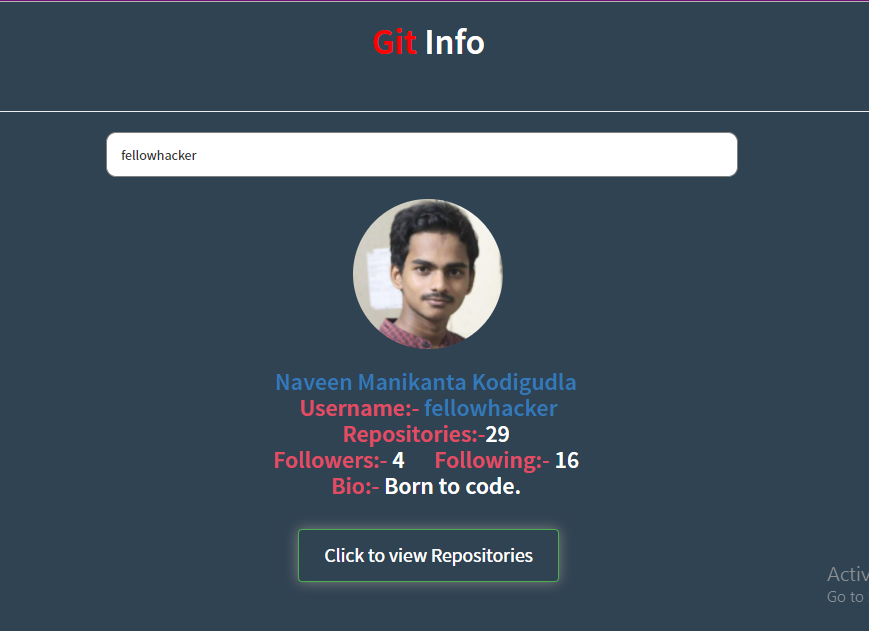
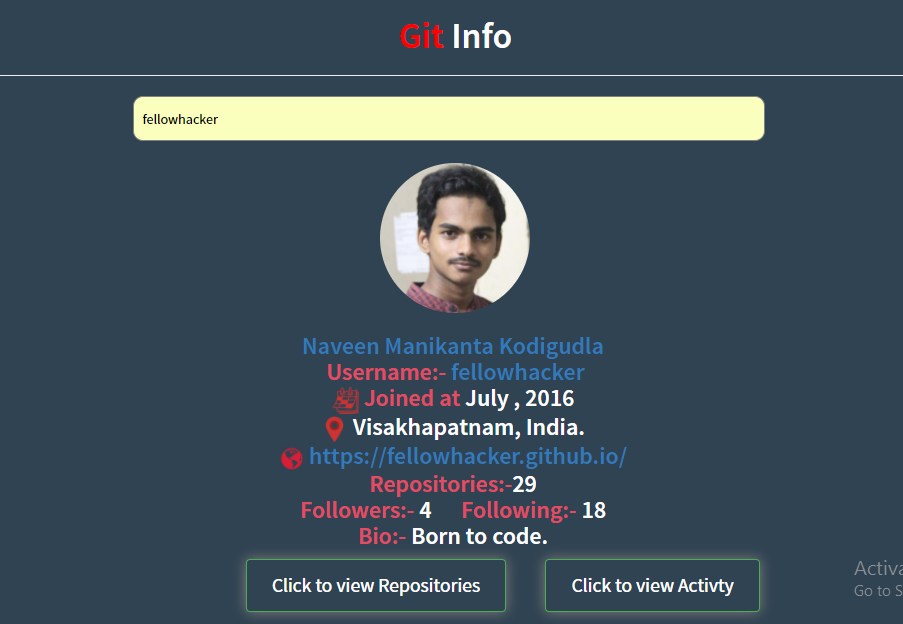
Activity added

diff --git a/js/main.js b/js/main.js
@@ -111,15 +111,15 @@ function getBasicInfo(data) {
 				' <br><span style="color: #e44c65;">Bio:- </span><span style="color:white"> ' + bio + ' </span> <br> </h3>' +
         
         '<div class="row">' +
-          ' <div class="col-md-3 text-center">' +
-                '<a href="#goToRepos" id="disNone1"><button class="btn btn-success" style="" id="butrep"><span style="font-size: 140%;">Click to view Repositories</span></button></a>'+
+          ' <div class="col-md-3 text-center" id="disNone1">' +
+                '<a href="#goToRepos"><button class="btn btn-success" style="" id="butrep"><span style="font-size: 140%;">Click to view Repositories</span></button></a>'+
             '</div>' +
 
           '<div class="col-md-5">' +
           '</div>' +
 
           '<div class="col-md-4 text-center">' +
-             '<a href="#" id="disNone1"><button class="btn btn-success" style="" id="butactivity"><span style="font-size: 140%;">Click to view Activty</span></button></a>' +
+             '<a href="#goToActivity" id="disNone1"><button class="btn btn-success" style="" id="butactivity"><span style="font-size: 140%;">Click to view Activty</span></button></a>' +
           '</div>'+
        
         '</div>' +
@@ -197,7 +197,7 @@ $( function() {
     })
 
 })
-getactivity('A')
+  //getactivity('A')
 
 function getactivity(username) {
 
@@ -223,7 +223,7 @@ function getactivity(username) {
 
 function dispActivity(data, i) {
 
-  var all = "";
+  var all = "<div class='row'>";
 
     if(data[i].type === 'CreateEvent') {
       var name = data[i].repo.name
@@ -236,9 +236,9 @@ function dispActivity(data, i) {
                   '</div><br>' 
      // console.log(all.outputact)
 
-   //   all = all.outputact
+     all = all + outputact
 
-      return outputact;
+  //    return outputact;
     }
     else if(data[i].type === 'ForkEvent') {
       var name = data[i].repo.name
@@ -253,7 +253,8 @@ function dispActivity(data, i) {
                      
                   '</div><br>' 
 
-     return outputact;
+     all = all + outputact
+    // return outputact;
     }
     else if(data[i].type === 'WatchEvent') {
       var name = data[i].repo.name
@@ -261,28 +262,31 @@ function dispActivity(data, i) {
       var outputact = '<div class="row">' +
      
                     '<div class="col-md-12 text-center activityinfo">' +
-                       '<p style="color:white;"> <img src = "img/starr.png" width="18px"> Starred <span style="color:#e44c65"> repository </span> <a href="https://www.github.com/'+ name +'" style="color:white;" target="blank"> ' + name + ' </a></p><br> ' + 
+                       '<p style="color:white;"> <img src = "img/starr.png" width="18px"> Starred <span style="color:#e44c65"> repository </span> <a href="https://www.github.com/'+ name +'" style="color:white;" target="blank"> ' + name + ' </a></p> ' + 
                      '</div>' +
                      
                   '</div><br>' 
 
-     return outputact;
+     all = all + outputact
+    // return outputact;
     }
     else if(data[i].type === 'PushEvent') {
       var name = data[i].repo.name
-      var commiturl = data[i].payload.commits[0]['url']
+      var commiturl = data[i].payload.commits[0]['url'].replace('api', 'www').replace('repos/', '')
       
       var outputact = '<div class="row">' +
      
                     '<div class="col-md-12 text-center activityinfo">' +
                        '<p style="color:white;"> Pushed <span style="color:#e44c65"> to </span> <a href="https://www.github.com/'+ name +'" style="color:white;" target="blank"> ' + name + ' </a><br> ' +
-                       ' '+ data[i].payload.size +'<span style="color:#e44c65"> commit </span> made  <span style="color:#e44c65"> Desc: <a href="https://www.github.com/'+ commiturl +'" style="color:white;" target="blank"> '  + data[i].payload.commits[0]['message'] + ' </a></span> </p> ' +
+                       ' '+ data[i].payload.size +'<span style="color:#e44c65"> commit </span> made  <span style="color:#e44c65"> Desc: <a href=" '+ commiturl +'" style="color:white;" target="blank"> '  + data[i].payload.commits[0]['message'] + ' </a></span> </p> ' +
                      '</div>' +
                      
                   '</div><br>' 
-
-     return outputact;
+    all = all + outputact
+    // return outputact;
     }
+    all = all + "</div>";
+    return all;
 
 
 }

diff --git a/index.html b/index.html
@@ -54,10 +54,21 @@
 		</div>
 		
 		<div id="disp_res"></div><br><br>
-		<div class="disNone" id="goToRepos" >
-		<div style="height: 50px;"></div>
-		<div id="activity"></div>
-		<div id="repos"></div>
+
+		<div class="disNone" id="goToRepos">
+
+			<div style="height: 50px;"></div>
+			
+			<div id="repos"></div>
+ 
+		</div>
+
+		<div class="" id="goToActivity" >
+
+			<div style="height: 50px;"></div>
+
+			<div id="activity"></div>
+
 		</div>
  
   
@@ -80,14 +91,20 @@
 	<style type="text/css">
  
 	</style>
-	 <script>
-	 	$('#disNone1').click( function() {
 
-	 		$('#goToRepos').show();
+	 <script src="js/smoothscroll.js"></script>
+	 <script>
+	 	$(document).ready(function() {
+	 	$('#butrep').click( function() {
+
+	 		alert('k')
+	 		$('#gotoRepos').show();
+	 		
 
 	 	});
+
+	 });
 	 </script>
-	 <script src="js/smoothscroll.js"></script>
  
 </body>
 </html>  
